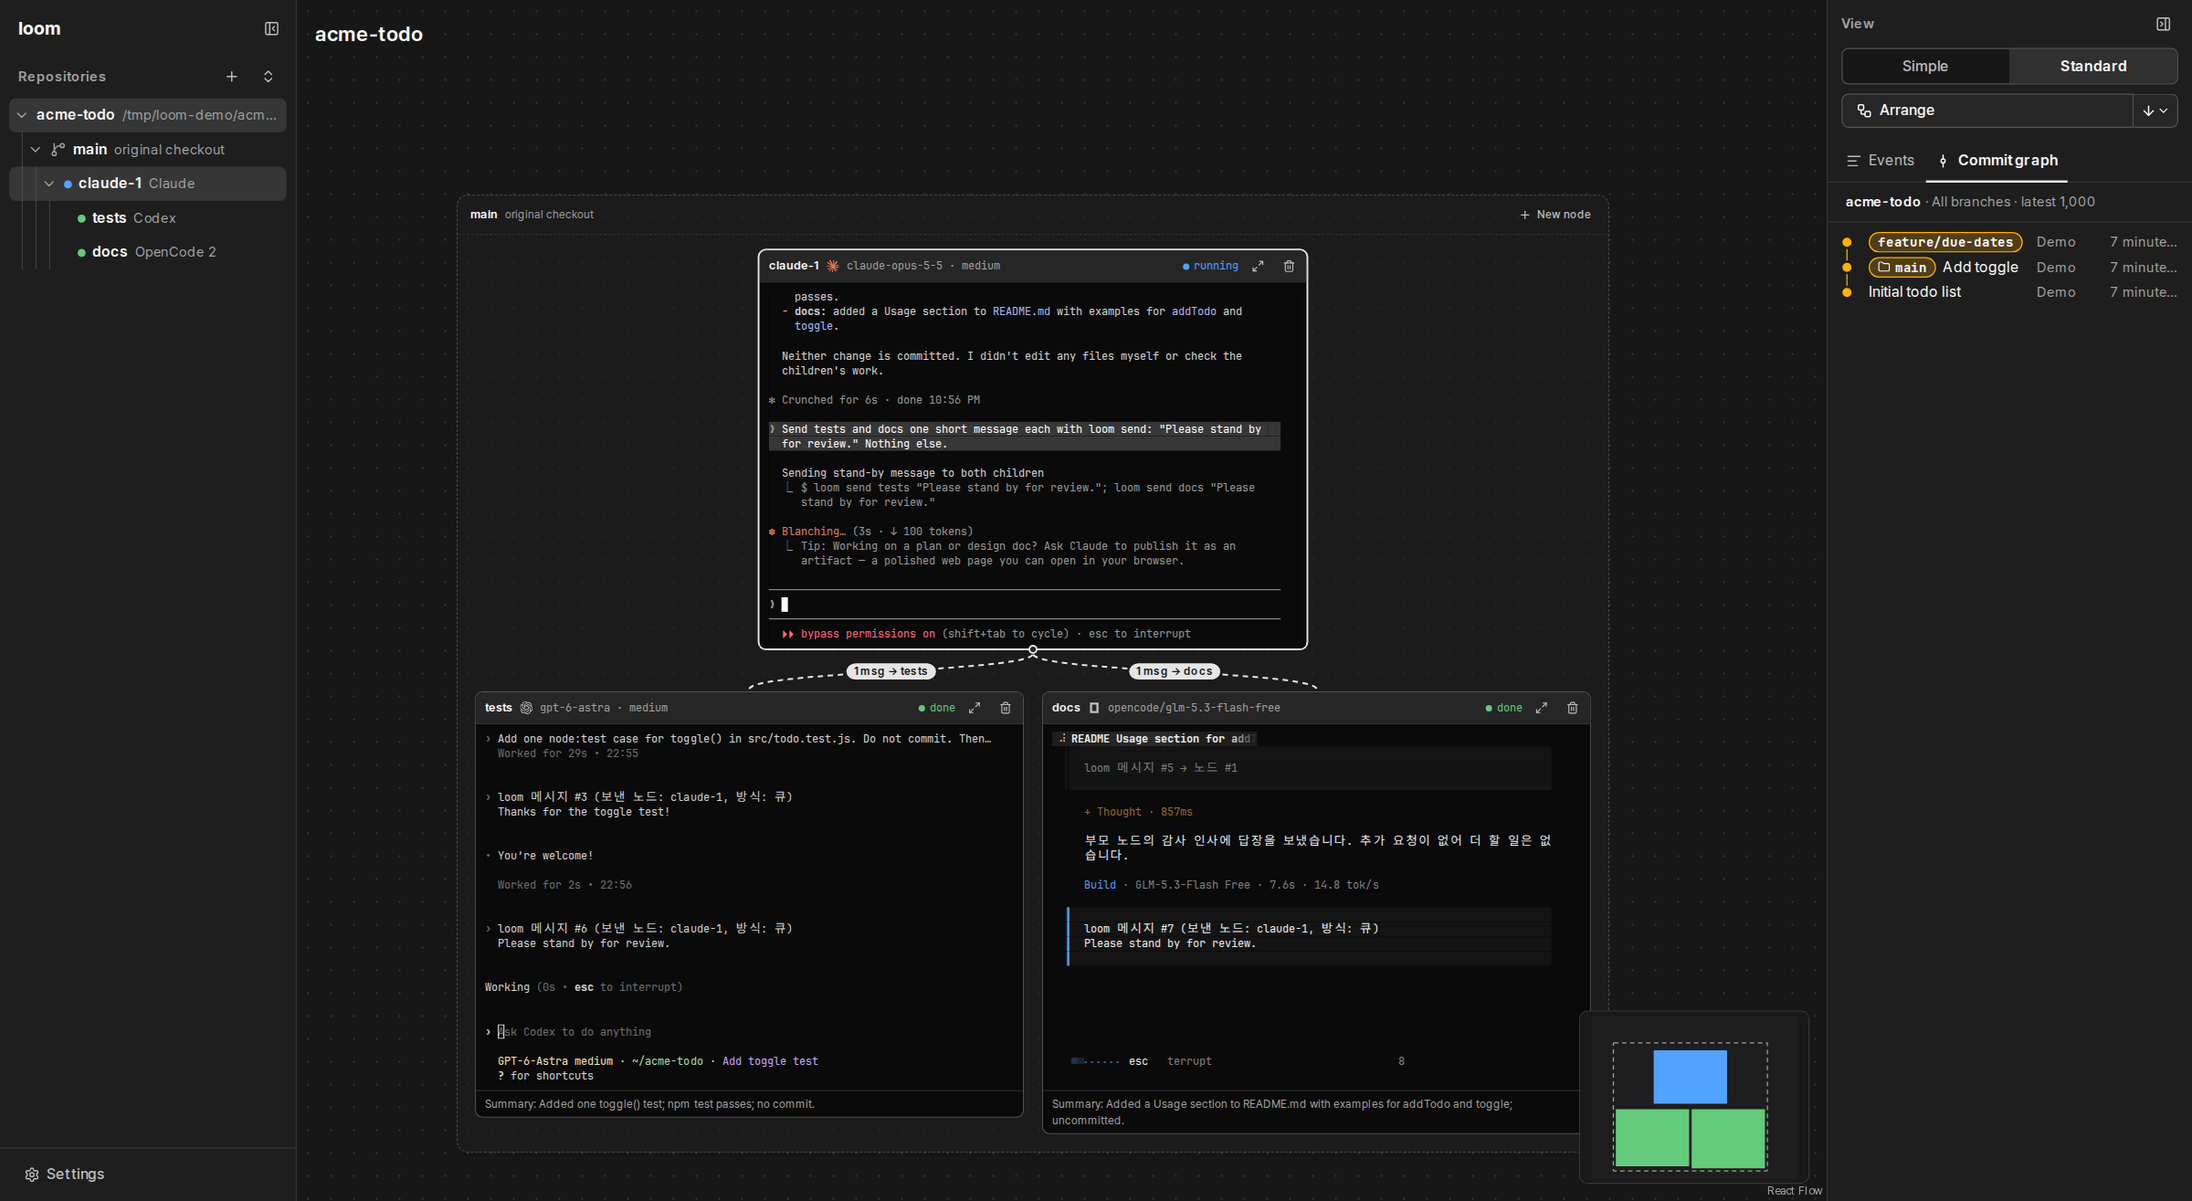
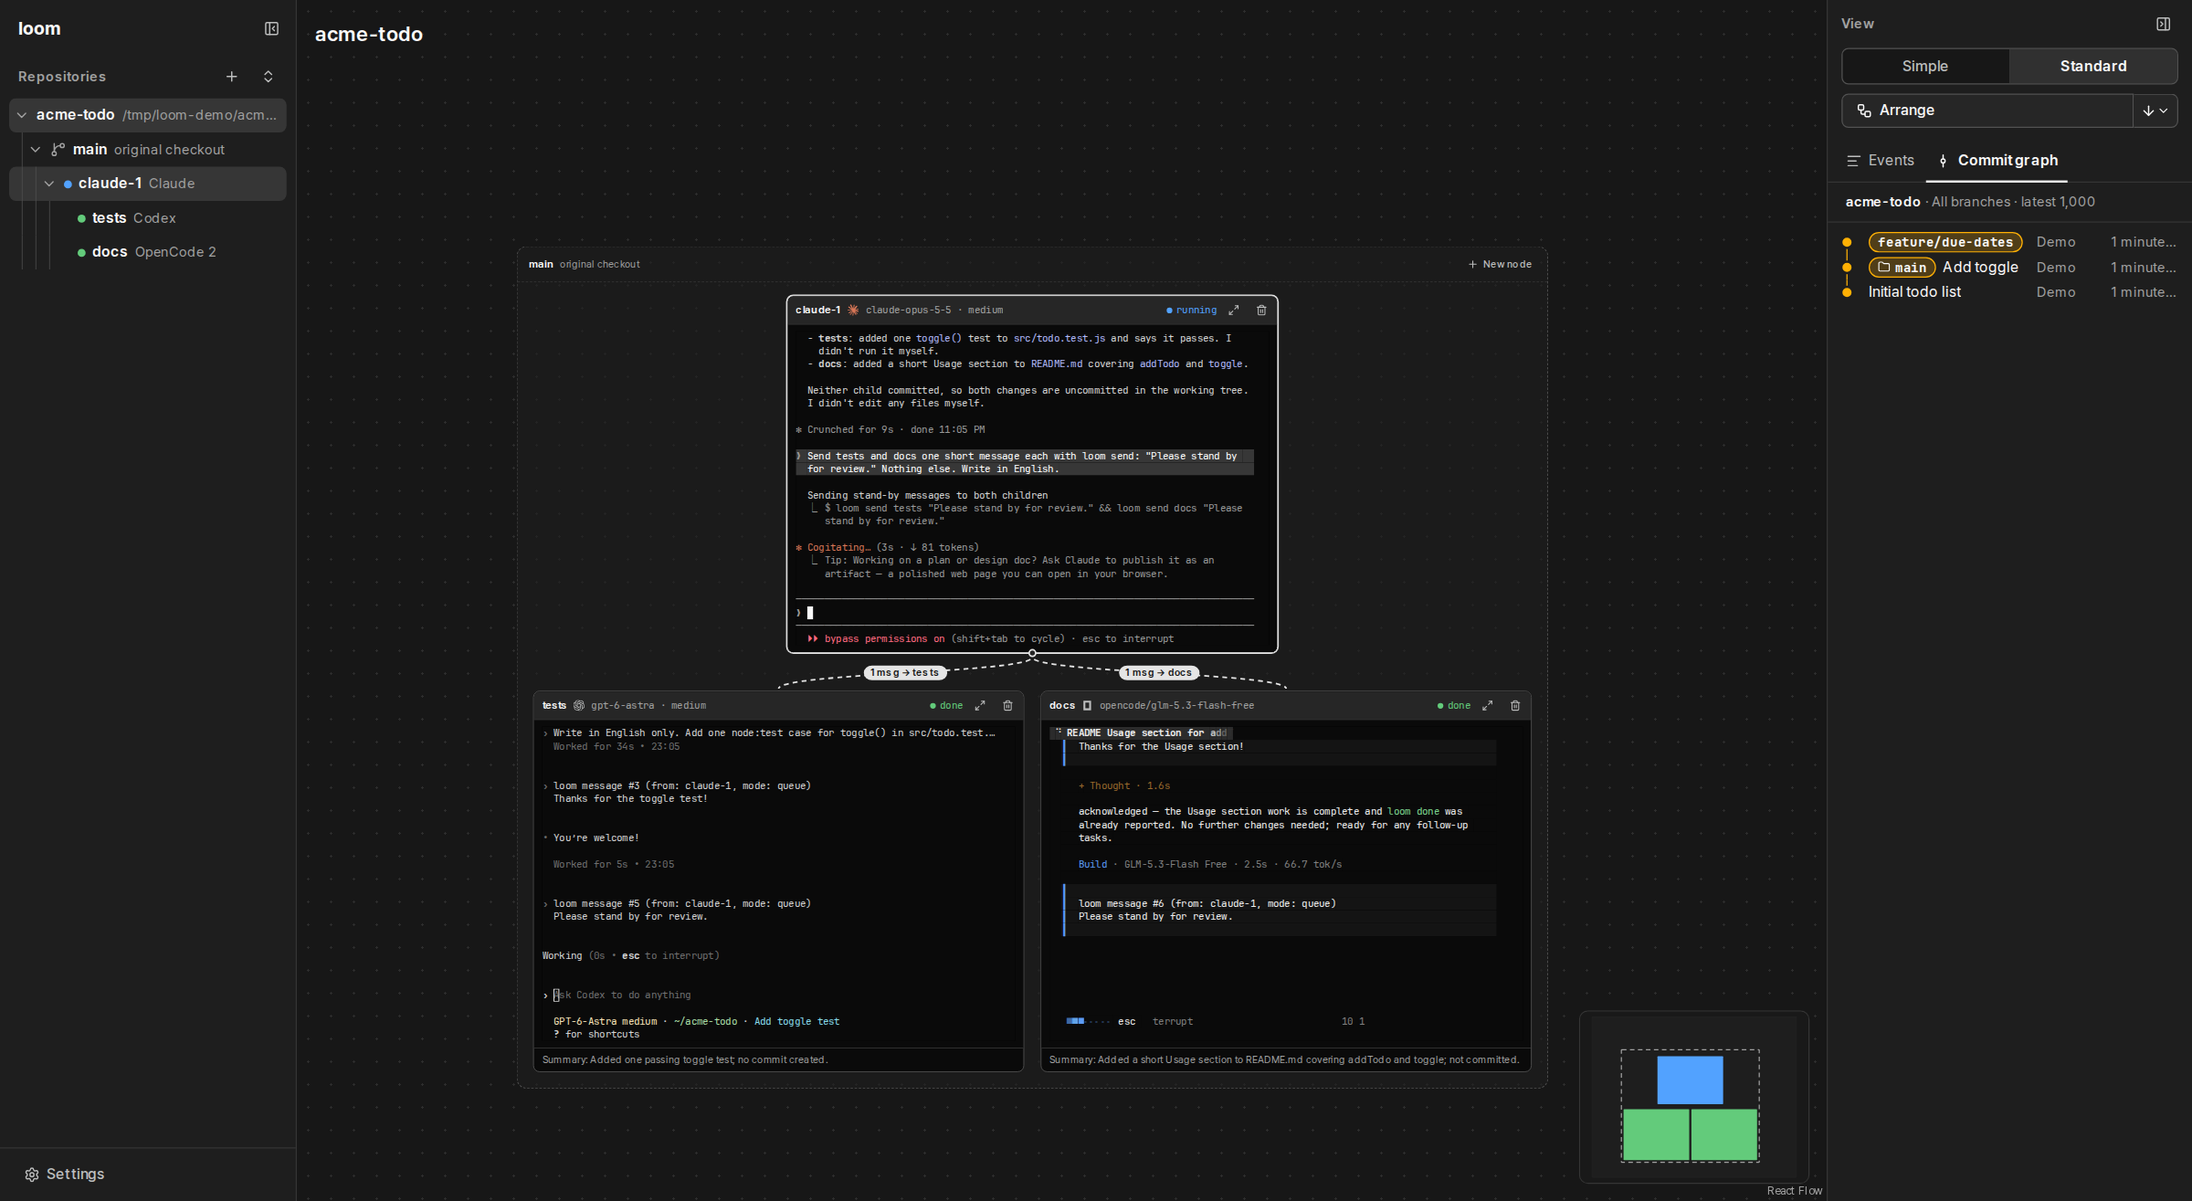
에이전트가 읽는 메시지 머리말과 loom 명령 출력을 영어로 바꾸고 대표 스크린샷을 다시 찍는다
- 머리말: loom message #N (from: <이름>, mode: queue|steer|interrupt. Stop current work and follow this body, reply to: #M).
- src/cli.rs의 명령 출력·오류와 데몬의 '노드 안에서만' 거절을 영어로. 테스트 기대값을 같은 글로 고쳤다.
- docs/design.md 메시지 번호 줄에 결정(사람 결정 "머리말 영어로 바꿈")을 적었다.
- hero.png: 새 실행 파일로 다시 찍었다. 터미널 글이 모두 영어이고 미니맵이 카드를 가리지 않는다.

diff --git a/docs/mockups/readme-preview.html b/docs/mockups/readme-preview.html
@@ -19,7 +19,7 @@
   <p>응답할 곳: 총괄 · claude-1</p>
   <p>연 담당: 총괄 · claude-1</p>
   <h1>README 미리보기</h1>
-  <p class="lead">GitHub 저장소 첫 화면에 보일 README 두 개다. 영어(README.md)가 기본이고, 한국어(README.ko.md)는 위 링크로 옮겨 간다. 대표 스크린샷은 시험 데몬에서 실제로 돈 Claude Code·Codex·OpenCode 2 노드를 찍었다. SignPath 서명 절은 뺐다.</p>
+  <p class="lead">GitHub 저장소 첫 화면에 보일 README 두 개다. 영어(README.md)가 기본이고, 한국어(README.ko.md)는 위 링크로 옮겨 간다. 대표 스크린샷은 시험 데몬에서 실제로 돈 Claude Code·Codex·OpenCode 2 노드를 찍었다. SignPath 서명 절은 뺐다. 에이전트가 읽는 메시지 머리말과 loom 명령 출력은 영어다.</p>
 </header>
 <h2 class="label">README.md (영어, 기본)</h2>
 <div class="box"><div class="file">README.md</div><article class="markdown-body"><h1 align="center" dir="auto">
@@ -38,7 +38,7 @@
   Each agent is a node card with its real terminal. Parents spawn children, children report back, and each message shows on the edge between them.
 </p>
 <p align="center" dir="auto">
-  <a target="_blank" rel="noopener noreferrer" href="../images/hero.png"><img src="../images/hero.png" alt="loom graph: a Claude Code lead with a Codex child and an OpenCode 2 child in one worktree. Each card shows a live terminal and its model. The edges show 1 msg → tests and 1 msg → docs. The commit graph is on the right." width="960" style="max-width: 100%;"></a>
+  <a target="_blank" rel="noopener noreferrer" href="../images/hero.png"><img src="../images/hero.png" alt="loom graph: a Claude Code lead with a Codex child and an OpenCode 2 child in one worktree. Each card shows a live terminal and its model. The edges show 1 msg → tests and 1 msg → docs, and the terminals show loom message headers. The commit graph is on the right." width="960" style="max-width: 100%;"></a>
 </p>
 <h2 dir="auto">Features</h2>
 <markdown-accessiblity-table><table role="table">
@@ -111,7 +111,7 @@ loom <span class="pl-k">done</span> <span class="pl-s"><span class="pl-pds">"</s
   에이전트 하나가 노드 카드 하나이고, 카드에 그 에이전트의 실제 터미널이 보입니다. 부모가 자식을 띄우고, 자식이 결과를 보고하고, 메시지는 둘 사이 간선에 보입니다.
 </p>
 <p align="center" dir="auto">
-  <a target="_blank" rel="noopener noreferrer" href="../images/hero.png"><img src="../images/hero.png" alt="loom 그래프: 한 워크트리에 Claude Code 총괄과 Codex 자식, OpenCode 2 자식이 있다. 카드마다 실시간 터미널과 모델이 보인다. 간선에 1 msg → tests, 1 msg → docs가 보인다. 오른쪽에 커밋 그래프가 있다." width="960" style="max-width: 100%;"></a>
+  <a target="_blank" rel="noopener noreferrer" href="../images/hero.png"><img src="../images/hero.png" alt="loom 그래프: 한 워크트리에 Claude Code 총괄과 Codex 자식, OpenCode 2 자식이 있다. 카드마다 실시간 터미널과 모델이 보인다. 간선에 1 msg → tests, 1 msg → docs가 보인다. 카드 터미널에 loom message 머리말이 보인다. 오른쪽에 커밋 그래프가 있다." width="960" style="max-width: 100%;"></a>
 </p>
 <h2 dir="auto">기능</h2>
 <markdown-accessiblity-table><table role="table">

diff --git a/src/cli.rs b/src/cli.rs
@@ -53,7 +53,7 @@ pub fn spawn(
     };
     // 프록시를 거치지 않는다. Codex 샌드박스 안에서는 실패하고, 사람이 승인하면 샌드박스 밖에서 닿는다.
     let _: NodeId = post(&env_var("LOOM_SPAWN_URL")?, None, "spawn", &request, None)?;
-    println!("노드를 만들었다: {}", request.name);
+    println!("Created node: {}", request.name);
     Ok(())
 }
 
@@ -78,11 +78,8 @@ pub fn reply(message: u32, body: String) -> Result<(), String> {
 
 fn print_sent(sent: &Sent) {
     match sent.recipient {
-        Some(to) => println!("loom 메시지 #{} → 노드 #{}", sent.id.0, to.0),
-        None => println!(
-            "loom 메시지 #{}를 보관했다. 새 부모가 생기면 받는다.",
-            sent.id.0
-        ),
+        Some(to) => println!("loom message #{} → node #{}", sent.id.0, to.0),
+        None => println!("Kept loom message #{}. A new parent gets it.", sent.id.0),
     }
 }
 
@@ -117,7 +114,7 @@ pub fn wait(reply_to: Option<u32>, timeout_secs: Option<u64>, json: bool) -> Res
     std::io::Write::flush(&mut std::io::stdout()).map_err(|e| e.to_string())?;
     call::<()>("ack", &AckRequest { ids: vec![id] }, None).map_err(|e| {
         format!(
-            "받음 확인을 보내지 못했다: {e}. 같은 메시지 #{}가 다시 올 수 있다.",
+            "Could not acknowledge: {e}. Message #{} can come again.",
             id.0
         )
     })
@@ -127,13 +124,13 @@ pub fn wait(reply_to: Option<u32>, timeout_secs: Option<u64>, json: bool) -> Res
 /// 모델이 바뀌었는지는 데몬이 본다. 알리지 못해도 메시지 전달은 계속한다.
 pub fn hook() -> Result<(), String> {
     let input: serde_json::Value =
-        serde_json::from_reader(std::io::stdin()).map_err(|e| format!("훅 입력: {e}"))?;
-    let event = claude::Event::deserialize(&input).map_err(|e| format!("훅 입력: {e}"))?;
+        serde_json::from_reader(std::io::stdin()).map_err(|e| format!("hook input: {e}"))?;
+    let event = claude::Event::deserialize(&input).map_err(|e| format!("hook input: {e}"))?;
     let timeout = Duration::from_secs(claude::HOOK_HTTP_TIMEOUT_SECS);
     if let Some(model) = claude::reported_model(&event, &input)
         && let Err(e) = call::<()>("model", &model, Some(timeout))
     {
-        eprintln!("loom: 모델을 알리지 못했다: {e}");
+        eprintln!("loom: could not report the model: {e}");
     }
     if event.kinds().is_empty() {
         return Ok(());
@@ -152,7 +149,7 @@ pub fn hook() -> Result<(), String> {
     // 확인하지 못해도 훅 출력은 Claude에 넘긴다. 데몬이 같은 메시지를 다시 주고, 본문의 `#id`로 같은 메시지임을 안다.
     let ids = taken.iter().map(|d| d.id).collect();
     if let Err(e) = call::<()>("ack", &AckRequest { ids }, Some(timeout)) {
-        eprintln!("loom: 받음 확인을 보내지 못했다: {e}");
+        eprintln!("loom: could not acknowledge: {e}");
     }
     Ok(())
 }
@@ -174,13 +171,13 @@ pub fn done(summary: Option<String>, file: Option<PathBuf>) -> Result<(), String
         None => summary.unwrap_or_default(),
     };
     call::<()>("done", &DoneRequest { summary }, None)?;
-    println!("부모에게 결과를 보냈다. 부모가 없으면 새 부모가 생길 때 받는다.");
+    println!("Sent the result to the parent. With no parent, a new parent gets it.");
     Ok(())
 }
 
 pub fn adopt(name: String) -> Result<(), String> {
     call::<()>("adopt", &AdoptRequest { name }, None)?;
-    println!("부모가 되었다. 그 노드가 보관한 메시지가 메일함에 들어온다.");
+    println!("You are the parent now. Messages that node kept move to your inbox.");
     Ok(())
 }
 
@@ -196,7 +193,7 @@ fn call<T: DeserializeOwned>(
 }
 
 fn env_var(name: &str) -> Result<String, String> {
-    std::env::var(name).map_err(|_| format!("{name}가 없다. loom 노드 안에서만 부른다."))
+    std::env::var(name).map_err(|_| format!("{name} is not set. Run this only inside a loom node."))
 }
 
 fn post<T: DeserializeOwned>(
@@ -220,7 +217,7 @@ fn post<T: DeserializeOwned>(
         .send_json(body)
         // Codex 모델은 사용법 지시보다 이 출력을 보고 승인을 요청한다(실측).
         .map_err(|e| {
-            format!("데몬에 연결하지 못했다: {e}. 샌드박스 안이면 샌드박스 밖 실행 승인을 받아 다시 부른다.")
+            format!("Could not connect to the daemon: {e}. In a sandbox, get approval to run outside the sandbox and try again.")
         })?;
     if !res.status().is_success() {
         return Err(res.body_mut().read_to_string().unwrap_or_default());

diff --git a/src/profile.rs b/src/profile.rs
@@ -505,7 +505,7 @@ pub const COMMUNICATION_USAGE: &str = "You are a node in a loom graph. Use shell
 - loom done <summary> or loom done --file <path>: report completion to your parent. Completion leaves the process available for feedback. People read the summary on your node card: write it in the language they use with you, not in the agent-to-agent language.
 - loom adopt <name>: become this node's parent. Use loom status after a parent change.
 Bodies are at most 4KB and completion summaries at most 1KB. Put longer material in a file and send its absolute path.
-Messages begin with loom 메시지 and have an ID. The same ID can be redelivered; do not repeat completed actions for that ID.";
+Messages begin with loom message and have an ID. The same ID can be redelivered; do not repeat completed actions for that ID.";
 
 /// 설치를 보기 전에 거절한다. 받지 않는 인자를 버리고 띄우면 자식이 다른 모델로 돈다.
 fn choice_args(agent: &Agent, choice: &ModelChoice) -> Result<Vec<String>, LaunchError> {
@@ -523,16 +523,16 @@ pub fn message_text(taken: &[Delivery]) -> String {
         .iter()
         .map(|d| {
             let how = match d.kind {
-                Kind::Queue => "큐",
-                Kind::Steer => "조정",
-                Kind::Interrupt => "중단. 하던 일을 멈추고 이 본문을 따른다",
+                Kind::Queue => "queue",
+                Kind::Steer => "steer",
+                Kind::Interrupt => "interrupt. Stop current work and follow this body",
             };
             let reply = d
                 .reply_to
-                .map(|id| format!(", 답변 대상: #{}", id.0))
+                .map(|id| format!(", reply to: #{}", id.0))
                 .unwrap_or_default();
             format!(
-                "loom 메시지 #{} (보낸 노드: {}, 방식: {how}{reply})\n{}",
+                "loom message #{} (from: {}, mode: {how}{reply})\n{}",
                 d.id.0, d.from, d.body
             )
         })

diff --git a/src/profile/claude.rs b/src/profile/claude.rs
@@ -290,7 +290,7 @@ mod tests {
                 "hookEventName": "PreToolUse",
                 "permissionDecision": "deny",
                 "permissionDecisionReason":
-                    "loom 메시지 #1 (보낸 노드: 총괄, 방식: 중단. 하던 일을 멈추고 이 본문을 따른다)\n멈춰라",
+                    "loom message #1 (from: 총괄, mode: interrupt. Stop current work and follow this body)\n멈춰라",
             } }))
         );
     }
@@ -303,7 +303,7 @@ mod tests {
             stop.reply(&[delivery(Kind::Queue, "a"), delivery(Kind::Steer, "b")]),
             Some(json!({
                 "decision": "block",
-                "reason": "loom 메시지 #1 (보낸 노드: 총괄, 방식: 큐)\na\n\nloom 메시지 #1 (보낸 노드: 총괄, 방식: 조정)\nb",
+                "reason": "loom message #1 (from: 총괄, mode: queue)\na\n\nloom message #1 (from: 총괄, mode: steer)\nb",
             }))
         );
     }
@@ -325,7 +325,7 @@ mod tests {
                 event(input).reply(&[delivery(Kind::Steer, "b")]),
                 Some(json!({ "hookSpecificOutput": {
                     "hookEventName": name,
-                    "additionalContext": "loom 메시지 #1 (보낸 노드: 총괄, 방식: 조정)\nb",
+                    "additionalContext": "loom message #1 (from: 총괄, mode: steer)\nb",
                 } }))
             );
         }

diff --git a/src/profile/codex.rs b/src/profile/codex.rs
@@ -343,7 +343,7 @@ mod tests {
         assert_eq!(
             sent[0].1,
             json!({ "threadId": "th", "input": [{ "type": "text", "text":
-                "loom 메시지 #1 (보낸 노드: 부모, 방식: 큐)\na\n\nloom 메시지 #1 (보낸 노드: 부모, 방식: 조정)\nb" }] })
+                "loom message #1 (from: 부모, mode: queue)\na\n\nloom message #1 (from: 부모, mode: steer)\nb" }] })
         );
     }
 
@@ -391,7 +391,7 @@ mod tests {
         assert_eq!(sent[1].0, "turn/start");
         assert_eq!(
             sent[1].1["input"][0]["text"],
-            "loom 메시지 #1 (보낸 노드: 부모, 방식: 중단. 하던 일을 멈추고 이 본문을 따른다)\n멈춰라"
+            "loom message #1 (from: 부모, mode: interrupt. Stop current work and follow this body)\n멈춰라"
         );
     }
 

diff --git a/src/profile/opencode2/mod.rs b/src/profile/opencode2/mod.rs
@@ -436,7 +436,7 @@ mod tests {
         assert_eq!(calls[0], "interrupt");
         assert!(calls[1].starts_with("steer msg_"), "{}", calls[1]);
         assert!(calls[1].ends_with(
-            "loom 메시지 #1 (보낸 노드: 부모, 방식: 중단. 하던 일을 멈추고 이 본문을 따른다)\n멈춰라"
+            "loom message #1 (from: 부모, mode: interrupt. Stop current work and follow this body)\n멈춰라"
         ));
         assert_eq!(calls.len(), 2);
     }

diff --git a/src/daemon.rs b/src/daemon.rs
@@ -795,7 +795,7 @@ impl App {
         };
         node.ok_or((
             StatusCode::UNAUTHORIZED,
-            "loom 노드 안에서만 부른다.".into(),
+            "Run this only inside a loom node.".into(),
         ))
     }
 

diff --git a/docs/design.md b/docs/design.md
@@ -312,7 +312,7 @@
   - `loom wait`: 본문을 출력한 뒤 `/api/agent/ack`로 확인한다. `loom hook`: 훅 출력을 쓴 뒤 확인한다. Codex 전달 작업: `turn/*` 요청이 성공한 뒤 확인한다.
   - 확인 없이 30초(`REDELIVER_AFTER`)가 지나면 다음 꺼내기가 같은 메시지를 먼저 다시 준다. 데몬이 다시 시작해도 꺼낸 시각이 DB에 남아 다시 준다.
   - 다음 꺼내기에서 바로 다시 주지 않는다. Claude 노드는 백그라운드 `loom wait`와 훅이 같은 메일함을 함께 꺼낸다. 바로 다시 주면 한쪽이 확인하기 전에 다른 쪽이 같은 메시지를 또 받는다. 30초는 가장 오래 걸리는 Claude 훅 `timeout`(10초)의 3배다.
-  - 한계: 받는 쪽이 본문을 넣은 뒤 확인하기 전에 죽으면 같은 메시지가 두 번 간다. 그래서 본문 머리에 메시지 번호(`loom 메시지 #12`)를 넣는다. 에이전트는 같은 번호로 같은 메시지임을 안다.
+  - 한계: 받는 쪽이 본문을 넣은 뒤 확인하기 전에 죽으면 같은 메시지가 두 번 간다. 그래서 본문 머리에 메시지 번호를 넣는다(`loom message #12 (from: 총괄, mode: queue)`). 에이전트는 같은 번호로 같은 메시지임을 안다. 머리말과 `loom` 명령의 출력은 에이전트가 읽는 글이라 영어다(2026-10-20 사람 결정 "머리말 영어로 바꿈"). 사람이 보는 화면 글은 화면 언어를 따른다.
 - `loom hook`의 응답 상한(5초)을 훅 `timeout`(10초)보다 짧게 둔다. 그래서 Claude가 훅을 먼저 끝내 꺼낸 본문을 버리는 일이 드물다. 버려도 확인 전이므로 다시 간다.
 - Codex: 데몬은 노드마다 전달 작업 하나를 둔다. 이 작업은 메일함이나 스레드 상태가 바뀔 때 꺼낸다. 쉬면 모두, 일하면 조정·중단만 꺼낸다. 한 번에 꺼내는 본문 합은 Claude와 같은 8KB다.
 - Codex: `turn/start`를 보낸 뒤 상태 알림이 오기 전까지는 일하는 중으로 본다. 그 사이에 큐로 턴을 하나 더 시작하지 않는다.

diff --git a/README.ko.md b/README.ko.md
@@ -18,7 +18,7 @@
 </p>
 
 <p align="center">
-  <img src="docs/images/hero.png" alt="loom 그래프: 한 워크트리에 Claude Code 총괄과 Codex 자식, OpenCode 2 자식이 있다. 카드마다 실시간 터미널과 모델이 보인다. 간선에 1 msg → tests, 1 msg → docs가 보인다. 오른쪽에 커밋 그래프가 있다." width="960">
+  <img src="docs/images/hero.png" alt="loom 그래프: 한 워크트리에 Claude Code 총괄과 Codex 자식, OpenCode 2 자식이 있다. 카드마다 실시간 터미널과 모델이 보인다. 간선에 1 msg → tests, 1 msg → docs가 보인다. 카드 터미널에 loom message 머리말이 보인다. 오른쪽에 커밋 그래프가 있다." width="960">
 </p>
 
 ## 기능

diff --git a/README.md b/README.md
@@ -18,7 +18,7 @@
 </p>
 
 <p align="center">
-  <img src="docs/images/hero.png" alt="loom graph: a Claude Code lead with a Codex child and an OpenCode 2 child in one worktree. Each card shows a live terminal and its model. The edges show 1 msg → tests and 1 msg → docs. The commit graph is on the right." width="960">
+  <img src="docs/images/hero.png" alt="loom graph: a Claude Code lead with a Codex child and an OpenCode 2 child in one worktree. Each card shows a live terminal and its model. The edges show 1 msg → tests and 1 msg → docs, and the terminals show loom message headers. The commit graph is on the right." width="960">
 </p>
 
 ## Features
